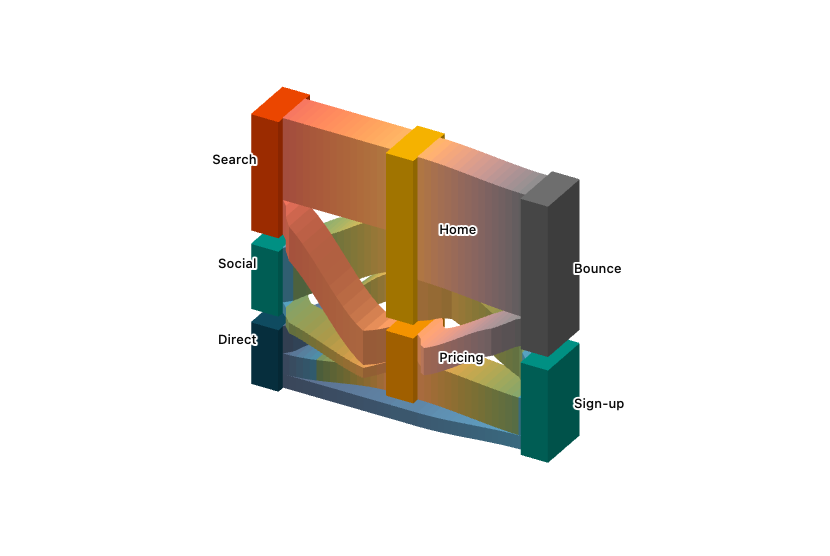
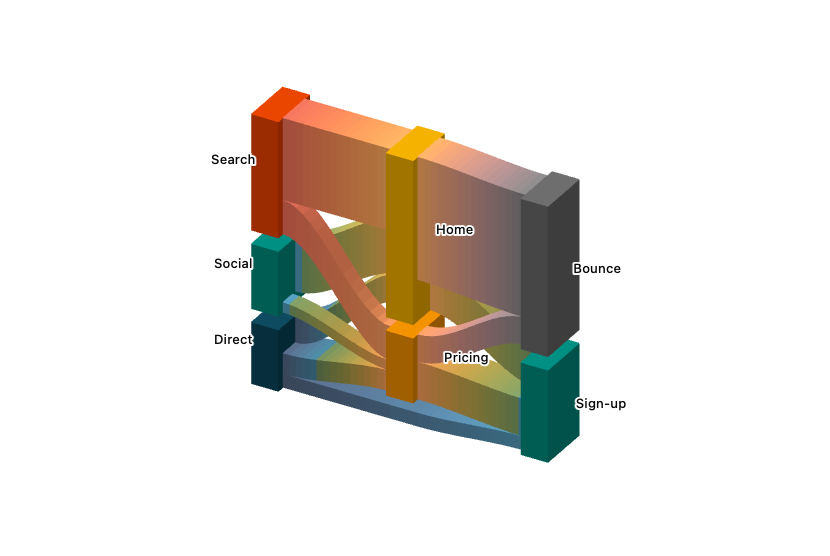
✨ feat(sankey): flows that cross narrow into lanes within the depth of a flow
The bow of 116f37f moved a whole crossing flow out to its lane, ±0.32
against nodes ±0.2 deep, over the few slices between a node and the
crossing. On charts with more columns those slices are narrow: at five or
six columns 70 % of the slices of the way in turned their side wall to the
default camera, and the bow read as a jog.

Now the flows of a knot share the depth of a flow, ±0.14: each takes a lane
of 3/(4L − 1) of it, a third of a lane apart, the lane that carries less in
front. A flow narrows into its lane on the way to the crossing and is whole
again at the next node; the outer faces stay where they are, so nothing
reaches out of the depth of a flow. Where the way in would turn a face more
steeply than 1.5, the lanes reach from node to node instead.

The paint order keeps its keys. A pixel check of the real projection finds
0 wrong pixels between lanes, 204 of 216 views of the demo clean (the rest at
tilt exactly 0, at most 6 px) and 7 px over 60 random charts, against 17 px
with the bow. Tests pin the lanes, the narrowing and the start in the lanes
at the node; each of them fails when its mechanism is taken out.

diff --git a/registry/new-york/ui/sankey-chart-3d.tsx b/registry/new-york/ui/sankey-chart-3d.tsx
@@ -36,8 +36,9 @@ const DEPTH = 0.4
 const RIBBON = 0.7
 // The slices of a flow from one column to the next: the more, the smoother it bends.
 const SEGMENTS = 16
-// The depth between the middles of two lanes, where flows that cross pass one another.
-const SPACING = 0.36
+// Where flows cross, they share the depth of a flow, each in a lane. The way into the lanes
+// turns a face at most this steeply; where it would turn one steeper, the lanes start at the node.
+const STEEPEST = 1.5
 // Closer than this on the screen, the two sides of a node lift its label over it.
 const SWING = 8
 
@@ -62,7 +63,8 @@ type Flow = { key: string; source: SankeyNode; target: SankeyNode; value: number
 /**
  * The part of a flow from one column to the next, from the middle of its slot
  * at the source, `y0`, to the one at the target, `y1`. A hop that crosses
- * others belongs to their `knot` and moves to the depth `z` while it passes them.
+ * others belongs to their `knot` and narrows into its lane, around the depth
+ * `z`, while it passes them.
  */
 type Hop = {
   flow: Flow
@@ -75,11 +77,11 @@ type Hop = {
 }
 
 /**
- * Hops of one gap that cross, directly or through one another. Their lanes
- * hold from the cross-section `from` to `to`, counted in slices, and `first`,
- * the topmost at the source, stands for the height of the knot.
+ * Hops of one gap that cross, directly or through one another. Their lanes,
+ * each `depth` deep, hold from the cross-section `from` to `to`, counted in
+ * slices, and `first`, the topmost at the source, stands for the height of the knot.
  */
-type Knot = { from: number; to: number; first: Hop }
+type Knot = { from: number; to: number; first: Hop; depth: number }
 
 /**
  * A part of the chart in the world: a node, or a slice of a flow that has come
@@ -332,7 +334,7 @@ function stackHops(nodes: SankeyNode[], ky: number) {
 /**
  * Parts the hops that cross, gap by gap. The hops of a gap that cross, directly
  * or through one another, form a knot. The knots of a gap lie one above the
- * other across the whole gap; only the hops within a knot move apart in depth.
+ * other across the whole gap; only the hops within a knot share their depth in lanes.
  */
 function weaveHops(nodes: SankeyNode[], columns: number, ky: number) {
   for (let column = 0; column < columns - 1; column += 1) {
@@ -356,8 +358,10 @@ function weaveHops(nodes: SankeyNode[], columns: number, ky: number) {
 /**
  * The lanes of a knot. Every hop takes the lowest lane that no hop crossing it
  * holds, which needs the fewest, and the lightest lane goes to the front. The
- * hops hold their lanes over the slices where any two of them overlap, so
- * their depth is constant there, and leave the rest for the way in and out.
+ * lanes share the depth of a flow, a third of a lane apart, so nothing reaches
+ * out of it. The hops hold their lanes over the slices where any two of them
+ * overlap, so their depth is constant there, and leave the rest for the way in
+ * and out.
  */
 function knotHops(hops: Hop[], ky: number) {
   const lanes: number[] = []
@@ -375,9 +379,12 @@ function knotHops(hops: Hop[], ky: number) {
   const slices = hops.flatMap((a, i) =>
     hops.slice(i + 1).flatMap((b) => (a.y1 > b.y1 ? overlaps(a, b, ky) : []))
   )
-  const knot = { from: Math.min(...slices), to: Math.max(...slices) + 1, first: hops[0] }
+  // count lanes and count − 1 gaps of a third of a lane fill the depth of a flow.
+  const ribbon = RIBBON * DEPTH
+  const depth = (3 * ribbon) / (4 * count - 1)
+  const knot = { from: Math.min(...slices), to: Math.max(...slices) + 1, first: hops[0], depth }
   for (const [i, hop] of hops.entries()) {
-    hop.z = ((count - 1) / 2 - front.indexOf(lanes[i])) * SPACING
+    hop.z = (ribbon - depth) / 2 - (front.indexOf(lanes[i]) * 4 * depth) / 3
     hop.knot = knot
   }
 }
@@ -437,12 +444,11 @@ function sankeyPieces(nodes: SankeyNode[], columns: number, ky: number, nodeWidt
     const own = node.flow
       ? { key: `way:${node.id}`, band, flow: node.flow, t: share(node.flow, band) }
       : { key: `node:${node.id}`, band, node, t: 0 }
-    const depth = node.flow ? RIBBON * DEPTH : DEPTH
+    const d = node.flow ? RIBBON * DEPTH : DEPTH
     const box = slab(
-      { x: band - half, y, z: 0 },
-      { x: band + half, y, z: 0 },
-      node.y1 - node.y0,
-      depth
+      { x: band - half, y, z: 0, d },
+      { x: band + half, y, z: 0, d },
+      node.y1 - node.y0
     )
     return [
       Object.assign(box, own, { row: y, lane: 0, level: y }),
@@ -456,8 +462,8 @@ function sankeyPieces(nodes: SankeyNode[], columns: number, ky: number, nodeWidt
 /**
  * The slices of a hop from `x0` to `x1`, along an S-curve that leaves and
  * arrives level, so that the hops of a flow join without a kink. A hop of a
- * knot moves into its lane and back along the same curve. Every hop between
- * the same two columns has the same slices.
+ * knot narrows into its lane and widens back along the same curve. Every hop
+ * between the same two columns has the same slices.
  */
 function hopPieces(
   hop: Hop,
@@ -466,17 +472,30 @@ function hopPieces(
   ky: number,
   share: (flow: Flow, at: number) => number
 ): Piece[] {
-  const at = (of: Hop, k: number) => ({
-    x: x0 + ((x1 - x0) * k) / SEGMENTS,
-    y: of.y0 + (of.y1 - of.y0) * ease(k / SEGMENTS),
-    z: of.z * bump(k, of.knot),
-  })
-  const { knot } = hop
+  const ribbon = RIBBON * DEPTH
+  // The S-curve turns a face steepest in its middle, at 1.5 times its mean slope, so a way into
+  // the lanes over `slices` that would turn one steeper than STEEPEST starts in the lanes instead.
+  const gentle = (slices: number, depth: number) =>
+    ((ribbon - depth) * 1.5) / ((slices * (x1 - x0)) / SEGMENTS) <= STEEPEST
+  const knot = hop.knot && {
+    ...hop.knot,
+    from: gentle(hop.knot.from, hop.knot.depth) ? hop.knot.from : 0,
+    to: gentle(SEGMENTS - hop.knot.to, hop.knot.depth) ? hop.knot.to : SEGMENTS,
+  }
+  const at = (of: Hop, k: number) => {
+    const into = bump(k, knot)
+    return {
+      x: x0 + ((x1 - x0) * k) / SEGMENTS,
+      y: of.y0 + (of.y1 - of.y0) * ease(k / SEGMENTS),
+      z: of.z * into,
+      d: ribbon + ((knot?.depth ?? ribbon) - ribbon) * into,
+    }
+  }
   return Array.from({ length: SEGMENTS }, (_, k) => {
     const [from, to] = [at(hop, k), at(hop, k + 1)]
     const first = knot ? [at(knot.first, k), at(knot.first, k + 1)] : [from, to]
     const band = (from.x + to.x) / 2
-    return Object.assign(slab(from, to, hop.flow.value * ky, RIBBON * DEPTH), {
+    return Object.assign(slab(from, to, hop.flow.value * ky), {
       key: `hop:${hop.flow.key}:${hop.source.column}:${k}`,
       band,
       flow: hop.flow,
@@ -491,15 +510,15 @@ function hopPieces(
 
 /**
  * The corners of a slab from the cross-section around `from` to the one around
- * `to`, `height` high and `depth` deep, in the order of box(). The two are
- * equal rectangles, so the faces stay planar and the slab convex.
+ * `to`, `height` high and each `d` deep, in the order of box(). Two rectangles
+ * of one height keep the faces planar and the slab convex.
  */
-function slab(from: Point3D, to: Point3D, height: number, depth: number) {
-  return [depth / 2, -depth / 2].flatMap((dz) => [
-    { x: from.x, y: from.y - height / 2, z: from.z + dz },
-    { x: from.x, y: from.y + height / 2, z: from.z + dz },
-    { x: to.x, y: to.y + height / 2, z: to.z + dz },
-    { x: to.x, y: to.y - height / 2, z: to.z + dz },
+function slab(from: Point3D & { d: number }, to: Point3D & { d: number }, height: number) {
+  return [1, -1].flatMap((side) => [
+    { x: from.x, y: from.y - height / 2, z: from.z + (side * from.d) / 2 },
+    { x: from.x, y: from.y + height / 2, z: from.z + (side * from.d) / 2 },
+    { x: to.x, y: to.y + height / 2, z: to.z + (side * to.d) / 2 },
+    { x: to.x, y: to.y - height / 2, z: to.z + (side * to.d) / 2 },
   ])
 }
 

diff --git a/tests/sankey-chart-3d.test.tsx b/tests/sankey-chart-3d.test.tsx
@@ -54,6 +54,25 @@ function slices(html: string, source: string, target: string) {
 }
 
 /**
+ * The screen heights at the two node ends of the flow from `source` to `target`:
+ * of the corners of its first slice at its source and of its last at its target.
+ */
+function ends(html: string, source: string, target: string) {
+  const all = faces(html)
+  const bySlice = [...slices(html, source, target).entries()].sort(([a], [b]) => a - b)
+  const sides = [
+    [bySlice[0][1], Math.min],
+    [bySlice.at(-1)![1], Math.max],
+  ] as const
+  return sides.map(([ids, side]) => {
+    const corners = ids.flatMap((i) => all[i].corners)
+    const edge = side(...corners.map(([x]) => x))
+    const ys = corners.filter(([x]) => x === edge).map(([, y]) => y)
+    return [Math.min(...ys), Math.max(...ys)]
+  })
+}
+
+/**
  * Renders `element` into the document and points at the middle of the last
  * painted face whose fill `pick` takes. Returns, before and after, the corners
  * of the faces in paint order, their fills, and the class of every label.
@@ -337,12 +356,12 @@ describe("SankeyChart3D", () => {
         })
         return zs.reduce((a, b) => (Math.abs(b) > Math.abs(a) ? b : a), 0)
       })
-    // Every hop that moves holds one of two lanes, ±SPACING/2.
+    // Every hop that narrows holds one of two lanes, around ±0.08.
     const lanes = new Set(deepest.filter((z) => Math.abs(z) > 0.01).map((z) => z.toFixed(2)))
-    expect(lanes).toEqual(new Set(["0.18", "-0.18"]))
+    expect(lanes).toEqual(new Set(["0.08", "-0.08"]))
   })
 
-  test("flows that cross part in depth by a lane where they pass, and meet the nodes level", () => {
+  test("flows that cross narrow into lanes within the depth of a flow, and meet the nodes whole", () => {
     // From straight above, the screen shows the depth: y = 200 + 120·z.
     const html = renderToString(chart(knot, { yaw: 0, tilt: Math.PI / 2 }))
     const all = faces(html)
@@ -354,24 +373,48 @@ describe("SankeyChart3D", () => {
           return ((Math.min(...ys) + Math.max(...ys)) / 2 - 200) / 120
         })
     const [ac, bd, ad] = [depths("a", "c"), depths("b", "d"), depths("a", "d")]
-    // The lighter b → d in front (+z), a → c behind, a lane apart where they cross.
-    expect(Math.max(...bd)).toBeCloseTo(0.18, 2)
-    expect(Math.min(...ac)).toBeCloseTo(-0.18, 2)
+    // The lighter b → d in the front lane, a → c in the back one, around ±0.08 where they cross.
+    expect(Math.max(...bd)).toBeCloseTo(0.08, 2)
+    expect(Math.min(...ac)).toBeCloseTo(-0.08, 2)
     // a → d crosses nothing and stays where it was.
     expect(ad.every((z) => Math.abs(z) < 0.01)).toBe(true)
-    // At the nodes both start and end level: the outer corners of their first and last slices sit at z = ±0.14.
-    for (const flow of [slices(html, "a", "c"), slices(html, "b", "d")]) {
-      const ends = [...flow.entries()].sort(([a], [b]) => a - b)
-      for (const [ids, side] of [
-        [ends[0][1], Math.min],
-        [ends.at(-1)![1], Math.max],
-      ] as const) {
-        const corners = ids.flatMap((i) => all[i].corners)
-        const edge = side(...corners.map(([x]) => x))
-        const ys = corners.filter(([x]) => x === edge).map(([, y]) => y)
-        expect([Math.min(...ys), Math.max(...ys)]).toEqual([183.2, 216.8])
-      }
-    }
+    // Nothing reaches out of the depth of a flow, z = ±0.14.
+    const ys = [...slices(html, "a", "c").values(), ...slices(html, "b", "d").values()]
+      .flat()
+      .flatMap((i) => all[i].corners.map(([, y]) => y))
+    expect(Math.min(...ys)).toBeGreaterThanOrEqual(183.2)
+    expect(Math.max(...ys)).toBeLessThanOrEqual(216.8)
+    // At the nodes both are whole: the outer corners of their first and last slices sit at z = ±0.14.
+    expect(ends(html, "a", "c")).toEqual([
+      [183.2, 216.8],
+      [183.2, 216.8],
+    ])
+    expect(ends(html, "b", "d")).toEqual([
+      [183.2, 216.8],
+      [183.2, 216.8],
+    ])
+  })
+
+  test("where the way into the lanes would be steep, the flows start in their lanes at the node", () => {
+    // Six columns leave slices a fifth as wide as two do: narrowing over a few of them would turn
+    // a face more steeply than STEEPEST, so the lanes reach from node to node.
+    const chain = [
+      { source: "c", target: "g", value: 8 },
+      { source: "d", target: "g", value: 6 },
+      { source: "g", target: "h", value: 14 },
+      { source: "h", target: "i", value: 14 },
+      { source: "i", target: "j", value: 14 },
+    ]
+    const html = renderToString(chart([...knot, ...chain], { yaw: 0, tilt: Math.PI / 2 }))
+    // From straight above, y = 200 + 120·z: b → d in the front lane, 0.02 to 0.14, a → c in the back one.
+    expect(ends(html, "b", "d")).toEqual([
+      [202.4, 216.8],
+      [202.4, 216.8],
+    ])
+    expect(ends(html, "a", "c")).toEqual([
+      [183.2, 197.6],
+      [183.2, 197.6],
+    ])
   })
 
   test("pointing at a flow fades the flows and nodes it does not connect, in place", async () => {

diff --git a/CHANGELOG.md b/CHANGELOG.md
@@ -39,9 +39,11 @@ and this project adheres to [Semantic Versioning](https://semver.org/spec/v2.0.0
 
 ### Changed
 
-- `sankey-chart-3d`: flows that cross pass one another in depth, the lane that
-  carries less in front, so a crossing no longer flips halfway and reads the
-  same from every side. Where the nodes leave room, the flows meet them level.
+- `sankey-chart-3d`: flows that cross pass one another in depth, so a crossing
+  no longer flips halfway and reads the same from every side. They share the
+  depth of a flow in lanes, the lane that carries less in front, and nothing
+  reaches out of it; a flow narrows into its lane and is whole again at the
+  next node, or, where that way would be too steep, keeps to its lane.
 - The shortcut panel has a row per label, with the keys and the gesture of an
   action side by side: five rows instead of nine.
 - A key glides the camera to its next view in 200 ms instead of jumping
